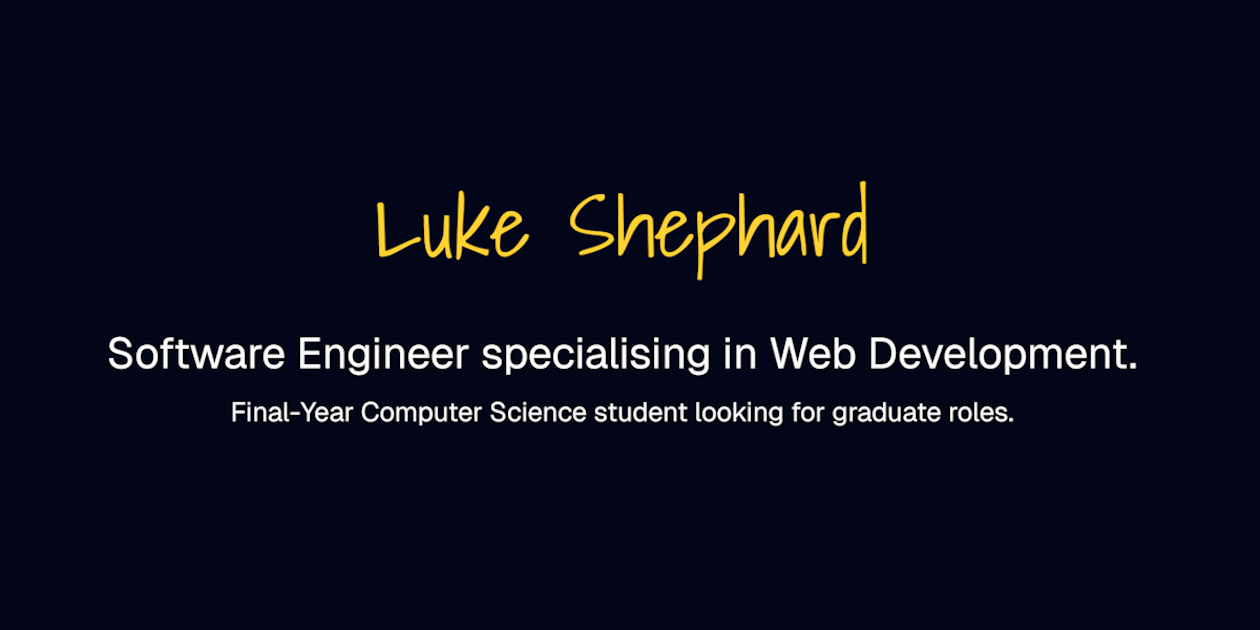
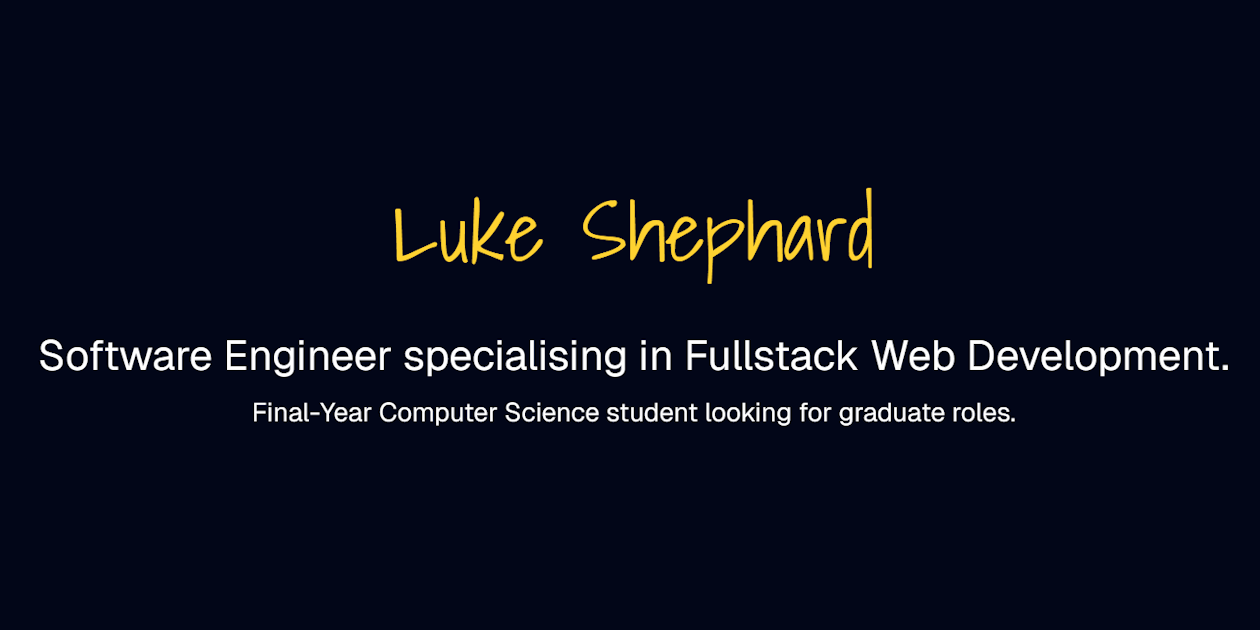
Update text

Changed region(s): [[0.031, 0.5127, 0.9905, 0.6032], [0.2786, 0.2714, 0.7119, 0.4524], [0.1857, 0.6333, 0.8048, 0.6937]]

diff --git a/app/page.tsx b/app/page.tsx
@@ -15,7 +15,7 @@ export default function Home() {
         <div className="backdrop-blur-md backdrop-opacity-100 px-9 rounded-4xl md:p-9 md:border-1">
           {/* <pre className="text-sm text-center whitespace-pre text-logo py-12">{getFullName()}</pre> */}
           <h1 className={`text-4xl md:text-6xl md:text-7xl 2xl:text-8xl text-logo md:py-12 ${shadowsIntoLight.className}`}>Luke Shephard</h1>
-          <h2 className={`text-xl md:text-xl md:text-2xl md:text-3xl 2xl:text-5xl py-6`}>Software Engineer specialising in Web Development.</h2> 
+          <h2 className={`text-xl md:text-xl md:text-2xl md:text-3xl 2xl:text-5xl py-6`}>Software Engineer specialising in Fullstack Web Development.</h2> 
           <div className="flex justify-center">
             <h3 className="md:text-md md:text-xl 2xl:text-3xl">Final-Year Computer Science student looking for graduate roles. </h3>
           </div>
